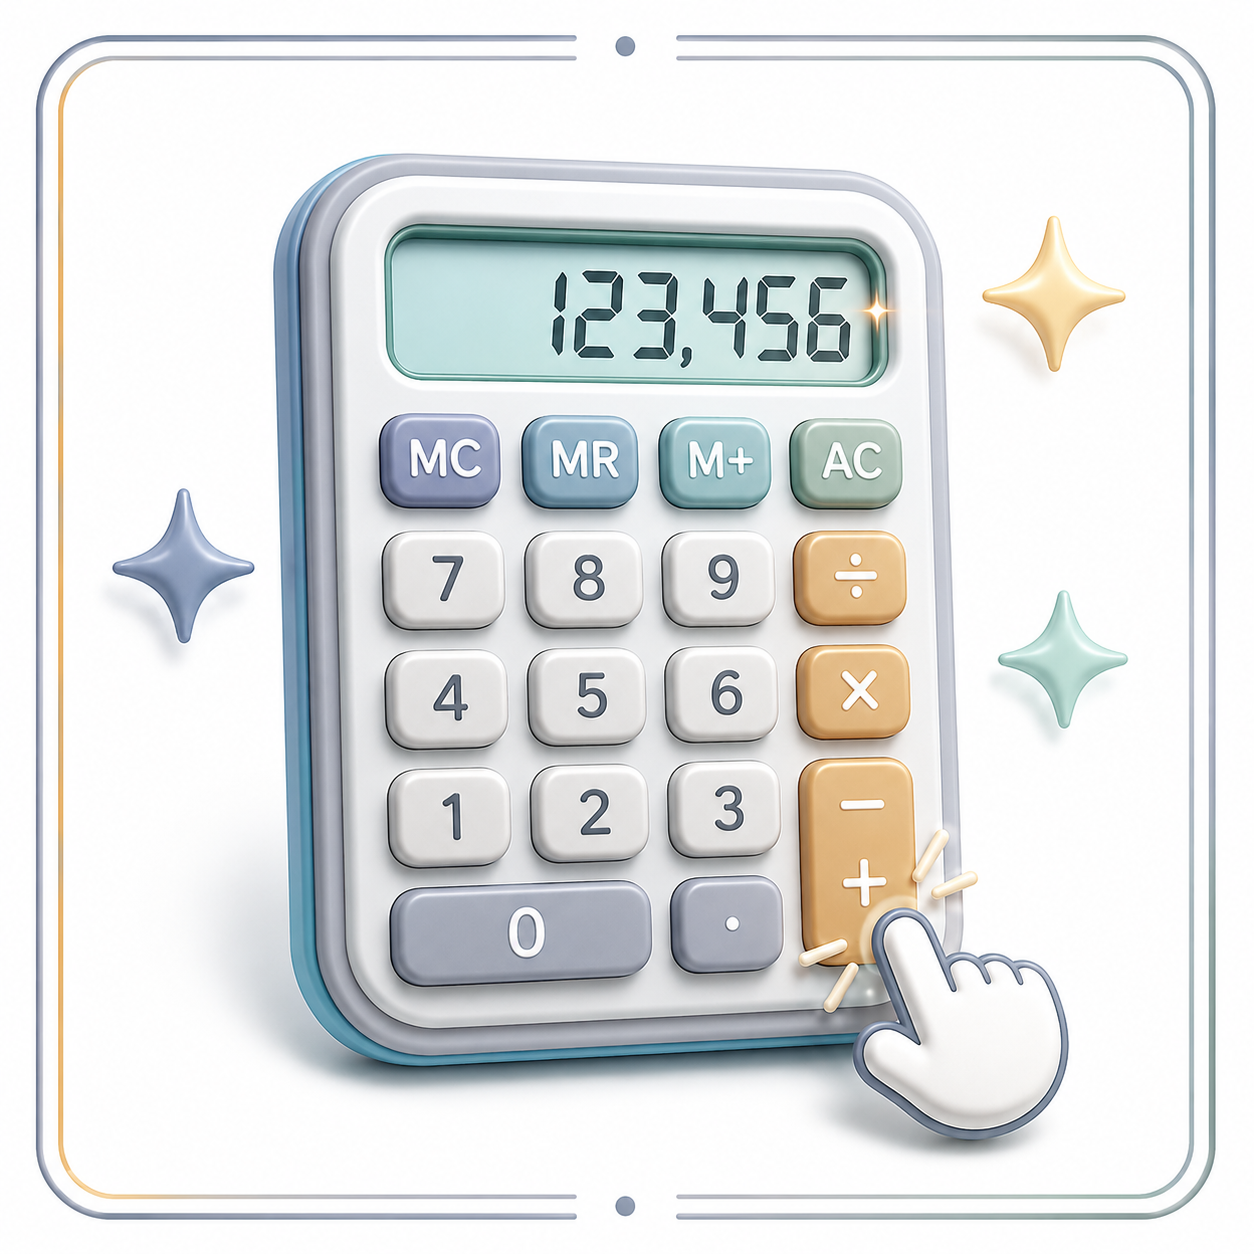
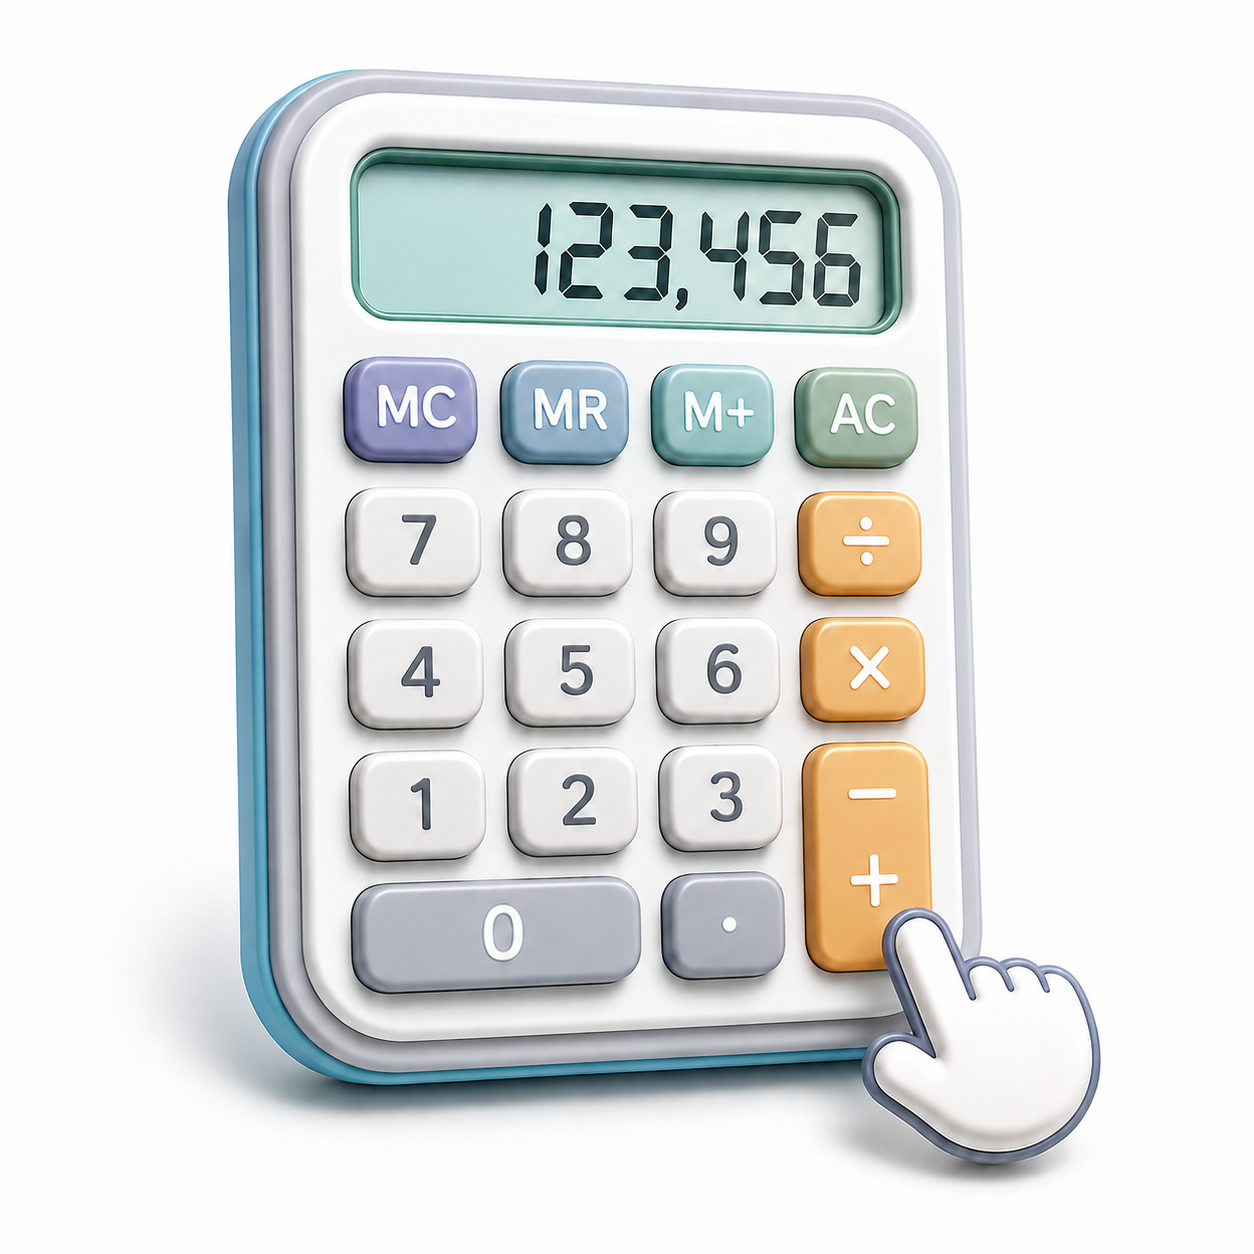
icono

diff --git a/index.html b/index.html
@@ -196,7 +196,7 @@ body.edit-mode .calc-key:active::after, body.edit-mode .calculator-display:activ
     <button class="calc-key" data-calc="1">1</button><button class="calc-key" data-calc="2">2</button><button class="calc-key" data-calc="3">3</button><button class="calc-key op" data-calc="+">＋</button>
     <button class="calc-key" data-calc="0">0</button><button class="calc-key" data-calc=".">,</button><button class="calc-key" data-calc="back">⌫</button><button class="calc-key equals" data-calc="=">=</button>
   </div>
-  <div class="app-version" style="position:absolute; bottom:16px; right:16px; font-size:14px; font-weight:900; color:var(--calc-display-text); opacity:0.35; pointer-events:none;">v32</div>
+  <div class="app-version" style="position:absolute; bottom:16px; right:16px; font-size:14px; font-weight:900; color:var(--calc-display-text); opacity:0.35; pointer-events:none;">v33</div>
 </div>
 
 <script>

diff --git a/sw.js b/sw.js
@@ -1,4 +1,4 @@
-const CACHE_NAME = 'calc-offline-v31';
+const CACHE_NAME = 'calc-offline-v33';
 const ASSETS = [
   './',
   './index.html',

diff --git a/update_calc9.py b/update_calc9.py
@@ -1,0 +1,10 @@
+import re
+
+with open('index.html', 'r') as f:
+    content = f.read()
+
+content = content.replace('>v32</div>', '>v33</div>')
+
+with open('index.html', 'w') as f:
+    f.write(content)
+